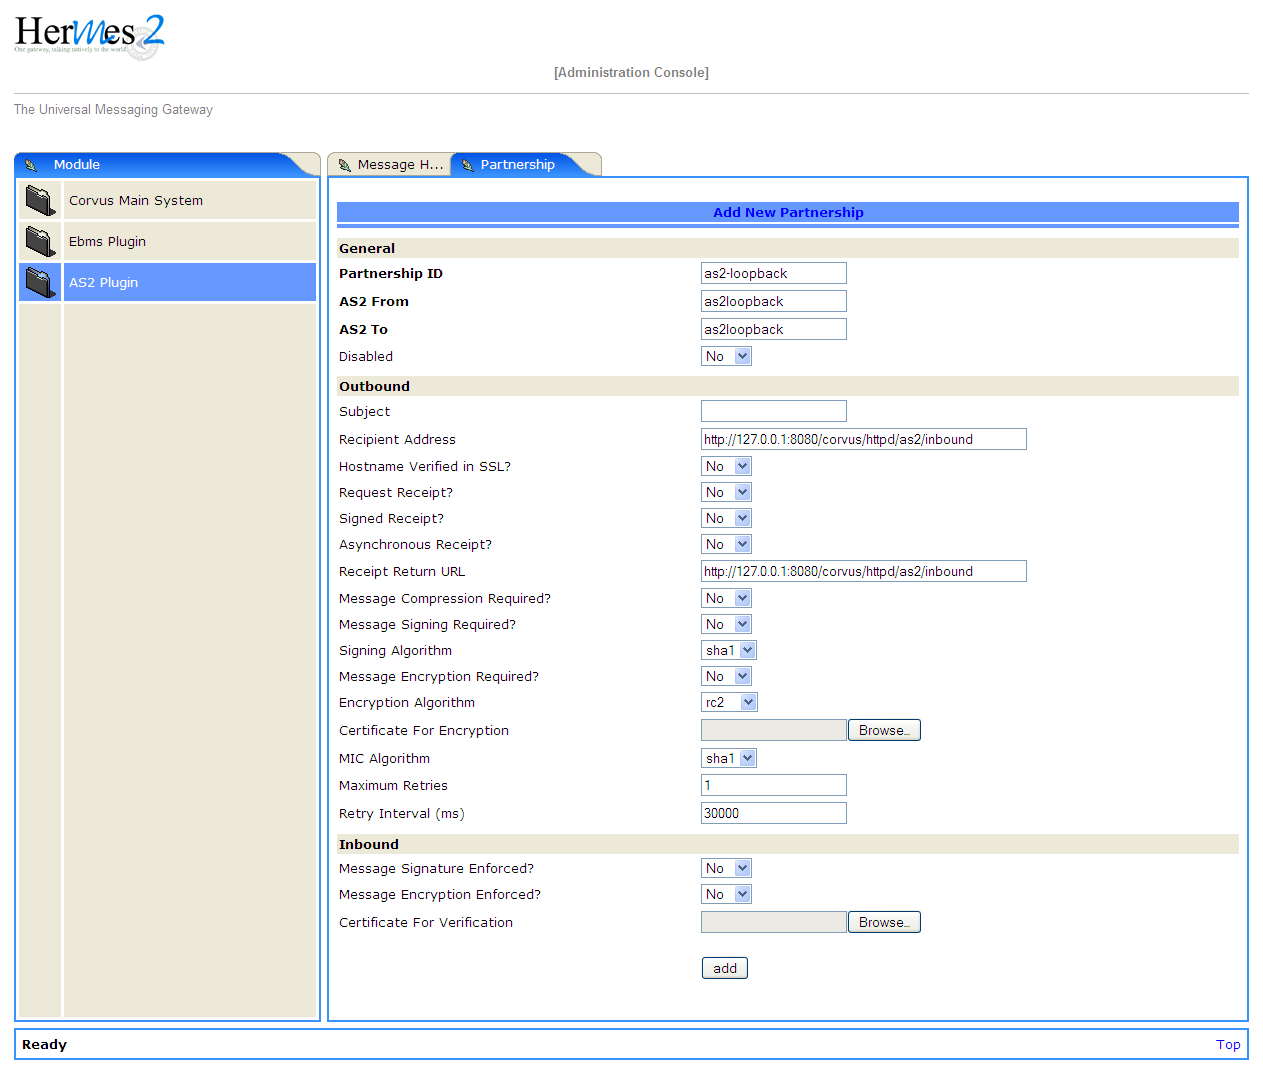
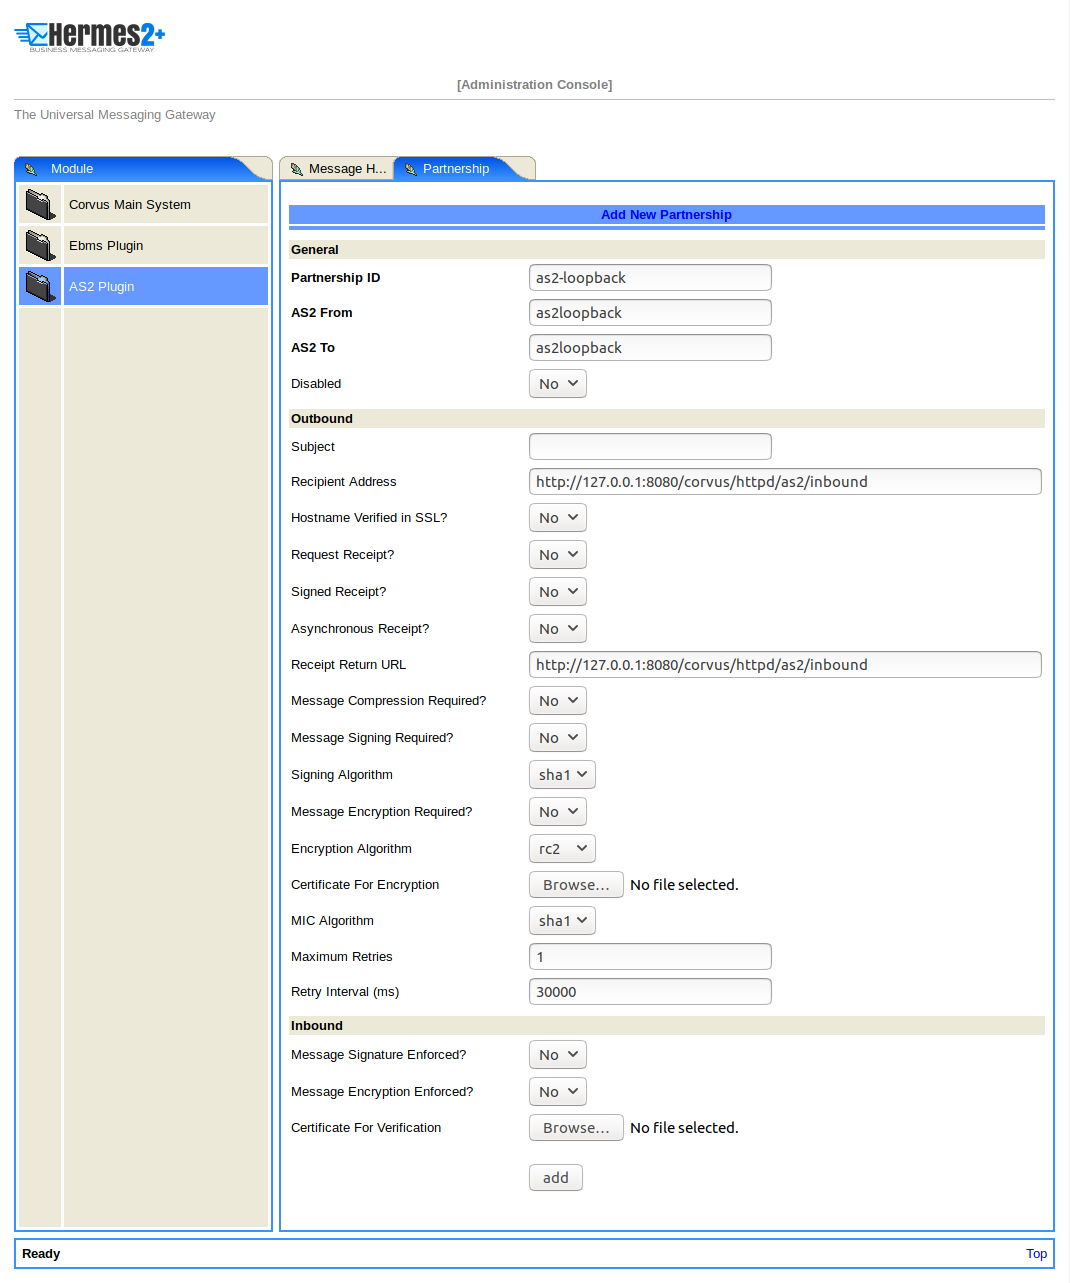
Update screenshots and minor edits in installation.rst

Changed region(s): [[0.0, 0.0, 1.0, 1.0], [0.4318, 0.0615, 0.586, 0.0922]]

diff --git a/docs/source/installation.rst b/docs/source/installation.rst
@@ -47,7 +47,7 @@ Prerequisite
       .. code-block:: sh
 
          sudo chmod 775 <TOMCAT_HOME>/webapps
-         sudo chown tomcat:cecid <TOMCAT_HOME>/webapps
+         sudo chown tomcat:<OWNER_GROUP> <TOMCAT_HOME>/webapps
 
    #. Edit :file:`/etc/systemd/system/tomcat.service`. 
       Change :envvar:`Environment=JAVA_HOME=/usr/lib/jvm/java-1.8.0-openjdk-amd64/jre` to :envvar:`Environment=JAVA_HOME=/usr/lib/jvm/java-8-oracle/jre`
@@ -319,19 +319,19 @@ UNIX environment
 """"""""""""""""
 
 1. Set environment variable :envvar:`JAVA_HOME` to the directory where Java is located.
+#. Change the owner and the group of :file:`{<HERMES2_HOME>}` and :file:`{<TOMCAT_HOME>}/webapps/corvus` with the following commands:
+
+   .. code-block:: sh
+
+      sudo chown -R tomcat:<OWNER_GROUP> <HERMES2_HOME>
+      sudo chown -R tomcat:<OWNER_GROUP> <TOMCAT_HOME>/webapps/corvus
+
 #. Change the permissions of all shell-script files to ``755`` with the following command:
    
    .. code-block:: sh
 
       sudo chmod -R 775 *.sh
-
-#. Change the owner and the group of :file:`{<HERMES2_HOME>}` and :file:`{<TOMCAT_HOME>}/webapps/corvus` with the following commands:
-
-   .. code-block:: sh
-
-      sudo chown -R tomcat:<owner group> <HERMES2_HOME>
-      sudo chown -R tomcat:<owner group> <TOMCAT_HOME>/webapps/corvus
-
+      
 
 Partnership Maintenance
 ^^^^^^^^^^^^^^^^^^^^^^^
@@ -495,60 +495,17 @@ Before executing the following AS2 web service usage sample, the partnership fro
    
    Upon successful execution, you should be able to see the similar output shown as follow:
    
-   .. code-block:: none
-
-      ----------------------------------------------------
-                      AS2 Message Sender
-      ----------------------------------------------------
-      Initialize Logger ...
-      Importing AS2 sending parameters ... ./config/as2-send/as2- request.xml
-      Importing AS2 partnership parameters ... ./config/as2- partnership.xml
-      Initialize AS2 message sender...
-      Adding payload in the AS2 message...
-      Sending AS2 sending request ...
-
-                         Sending Done:
-      ----------------------------------------------------
-      New message id: 20080722-133931-01300@127.0.1.1
-      Please view log for details ..
+   .. image:: /_static/images/as2-send.png
 
 #. Check the sent message using the script :program:`as2-history`.
 
    This program retrieves the list of sent/received message from Hermes. 
 
-   .. code-block:: none
-
-      ----------------------------------------------------
-           AS2 Message History Web Service Client
-      ----------------------------------------------------
-      Initialize Logger ...
-      Importing AS2 config parameters ... ./config/as2-history/as2- request.xml
-      Initialize AS2 messsage history queryer ...
-      Sending AS2 message history query request ...
-    
-                          Sending Done:
-      ----------------------------------------------------
-                 AS2 Message that are matched
-      ----------------------------------------------------
-      No. of message: 2
-      0 | Message id : 20080722-133931-01300@127.0.1.1
-      1 | Message id : 20080722-133931-01300@127.0.1.1
-      MessageBox: outbox
-      MessageBox: inbox
-      ----------------------------------------------------
-      Select message (0 - 1), -1 to exit:
+   .. image:: /_static/images/as2-history.png
 
    Enter ``0`` to check the sent message. A display similar to the following will appear: 
 
-   .. code-block:: none
-
-      Select message (0 - 1), -1 to exit: 0
-      Query Message ID          : 20080722-133931-01300@127.0.1.1 
-      Query Message Status      : DL 
-      Query Message Status Desc : null 
-      ACK Message ID            : null 
-      ACK Message Status        : null 
-      ACK Message Status Desc   : null
+   .. image:: /_static/images/as2-history-0.png
 
 #. Check the received message and download the payload.
 
@@ -567,64 +524,17 @@ Before executing the following ebMS web service usage sample, the partnership fr
 
    Upon successful execution, an output similar to the following will be displayed:
 
-   .. code-block:: none
-
-      ----------------------------------------------------
-                 EbMS sender web service client           
-      ----------------------------------------------------
-      Initialize Logger ...
-      Importing xml
-      Importing l
-      ebMS sending parameters ... ./config/ebms-send/ebms-request.
-      ebMS partnership parameters ... ./config/ebms-partnership.xml
-      Initialize ebMS web service client...
-      Adding
-      Sending
-      payload in the ebMS message...
-      ebMS sending request ...
-    
-                          Sending Done:
-      ----------------------------------------------------
-      New message id: 20080722-143157-97302@127.0.1.1
-      Please view log for details ..
+   .. image:: /_static/images/ebms-send.png
 
 #. Check the sent message using the script :program:`ebms-history`.
 
    This program retrieves the list of sent/received message from Hermes.
 
-   .. code-block:: none
-
-      ----------------------------------------------------
-                 EbMS Message History Queryer
-      ----------------------------------------------------
-      Initialize Logger ...
-      Importing ebMS config parameters ... ./config/ebms-history/ebms-request.xml
-      Initialize ebMS messsage history queryer ...
-      Sending ebMS message history query request ...
-    
-                          Sending Done:
-      ----------------------------------------------------
-                   EbMS Message Query Result             
-      ----------------------------------------------------
-      0   | Message id : 20080722-143157-97302@127.0.1.1 | MessageBox: outbox
-      1   | Message id : 20080722-143157-97302@127.0.1.1 | MessageBox: inbox
-      ----------------------------------------------------
-      Select message (0 - 1), -1 to exit:
+   .. image:: /_static/images/ebms-history.png
 
    Enter ``0`` to check the sent message and a screen similar to the following will be displayed: 
 
-   .. code-block:: none
-
-                          Sending Done:
-      ----------------------------------------------------
-      Query Message ID          : 20080722-143157-97302@127.0.1.1
-      Query Message Status      : DL
-      Query Message Status Desc : Message was sent.
-      ACK Message ID            : null
-      ACK Message Status        : null
-      ACK Message Status Desc   : null
-      ----------------------------------------------------
-      Please view log for details..
+   .. image:: /_static/images/ebms-history-0.png
 
 #. Check the received message and download the payload.
 
